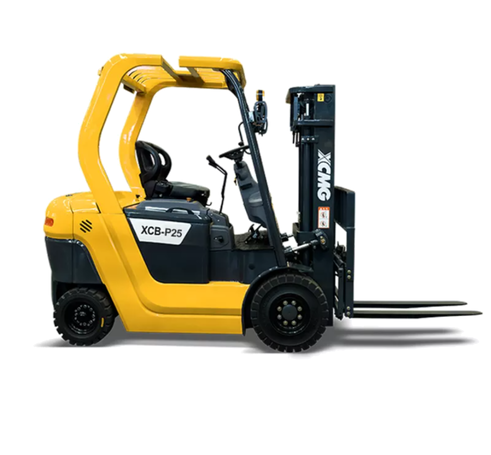
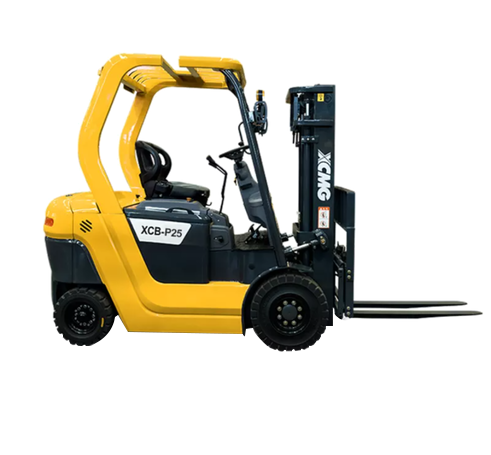
imagens trocadas

Changed region(s): [[0.0611, 0.6769, 0.9776, 0.8]]

diff --git a/src/components/third.tsx b/src/components/third.tsx
@@ -1,13 +1,7 @@
 import { component$ } from "@builder.io/qwik";
 import one_png from '../img/XE17U.png'
-import one_avif from '../img/XE17U.avif'
-import one_webp from '../img/XE17U.webp'
 import two_png from '../img/XCB-P25.png'
-import two_avif from '../img/XCB-P25.avif'
-import two_webp from '../img/XCB-P25.webp'
 import three_png from '../img/XCB-P30.png'
-import three_avif from '../img/XCB-P30.avif'
-import three_webp from '../img/XCB-P30.webp'
 // 004C96
 export default component$(() => {
     return (
@@ -15,8 +9,6 @@ export default component$(() => {
             <div id="maquinas" class="flex flex-col gap-12 lg:gap-0 lg:flex-row flex-wrap max-w-[90vw] mx-auto justify-around text-center text-[#000] font-bold">
                 <div class="flex flex-col justify-center items-center bg-white rounded-lg pb-11 p-10  mx-auto lg:w-[calc(100%/4)] shadow-md">
                     <picture>
-                        <source srcSet={two_avif} type="image/avif"/>
-                        <source srcSet={two_webp} type="image/webp"/>
                         <img src={two_png} alt="Guindaste de Rastelo" loading="lazy" height="250px" width="300px" />
                     </picture>
                     <h4 class="font-bold">Empilhadeira <span class="font-normal my-1 mb-10 opacity-60 whitespace-nowrap">XCB-P25/L25</span></h4>
@@ -28,8 +20,6 @@ export default component$(() => {
                 </div>
                 <div class="flex flex-col justify-center items-center bg-white rounded-lg pb-4 p-10  mx-auto lg:w-[calc(100%/4)]">
                     <picture>
-                        <source srcSet={one_avif} type="image/avif"/>
-                        <source srcSet={one_webp} type="image/webp"/>
                         <img src={one_png} alt="Guindaste de Rastelo" loading="lazy" height="250px" width="300px" />
                     </picture>
                     <h4 class="font-bold">Mini Escavadeira <span class="font-normal my-1 mb-10 opacity-60 whitespace-nowrap">XE17U</span></h4>
@@ -41,8 +31,6 @@ export default component$(() => {
                 </div>
                 <div class="flex flex-col justify-center items-center bg-white rounded-lg pb-4 p-10  mx-auto lg:w-[calc(100%/4)]">
                     <picture>
-                        <source srcSet={three_avif} type="image/avif"/>
-                        <source srcSet={three_webp} type="image/webp"/>
                         <img src={three_png} alt="Guindaste de caminhão" loading="lazy" height="250px" width="300px" />
                     </picture>
                     <h4 class="font-bold">Empilhadeira <span class="font-normal my-1 mb-10 opacity-60 whitespace-nowrap">XCB-P30/L30</span></h4>
@@ -53,9 +41,6 @@ export default component$(() => {
                     <p class="price-n font-medium  text-center">R$ 230.000,00</p>
                 </div>
             </div>
-            {/* <div class="w-full flex justify-center py-[1em] pb-20">
-                <button class="font-bold text-xl py-1 px-[2em] rounded-xl bg-[#004C96] text-white self-center"> Veja mais </button>
-            </div> */}
             <div class="w-full flex justify-center pt-8 pb-5 my-5">
                 <button class="font-bold text-xl py-3 px-[2em] rounded-xl bg-[#004C96] text-white self-center" onClick$={() => document.querySelector('form')?.scrollIntoView()}> Conheça nossos planos </button>
             </div>
